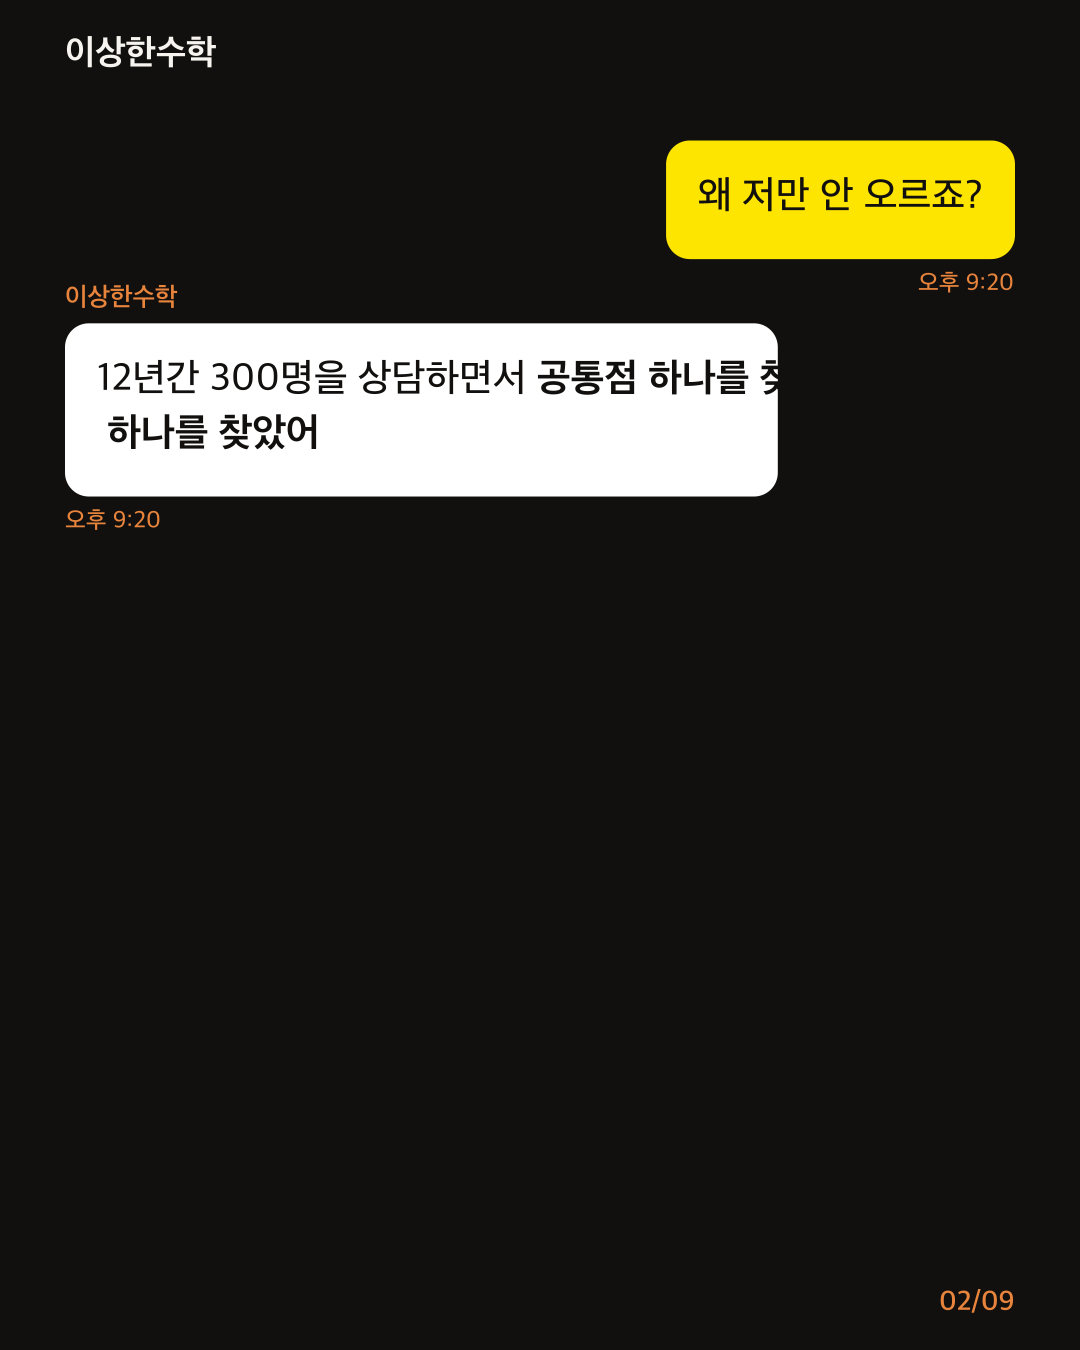
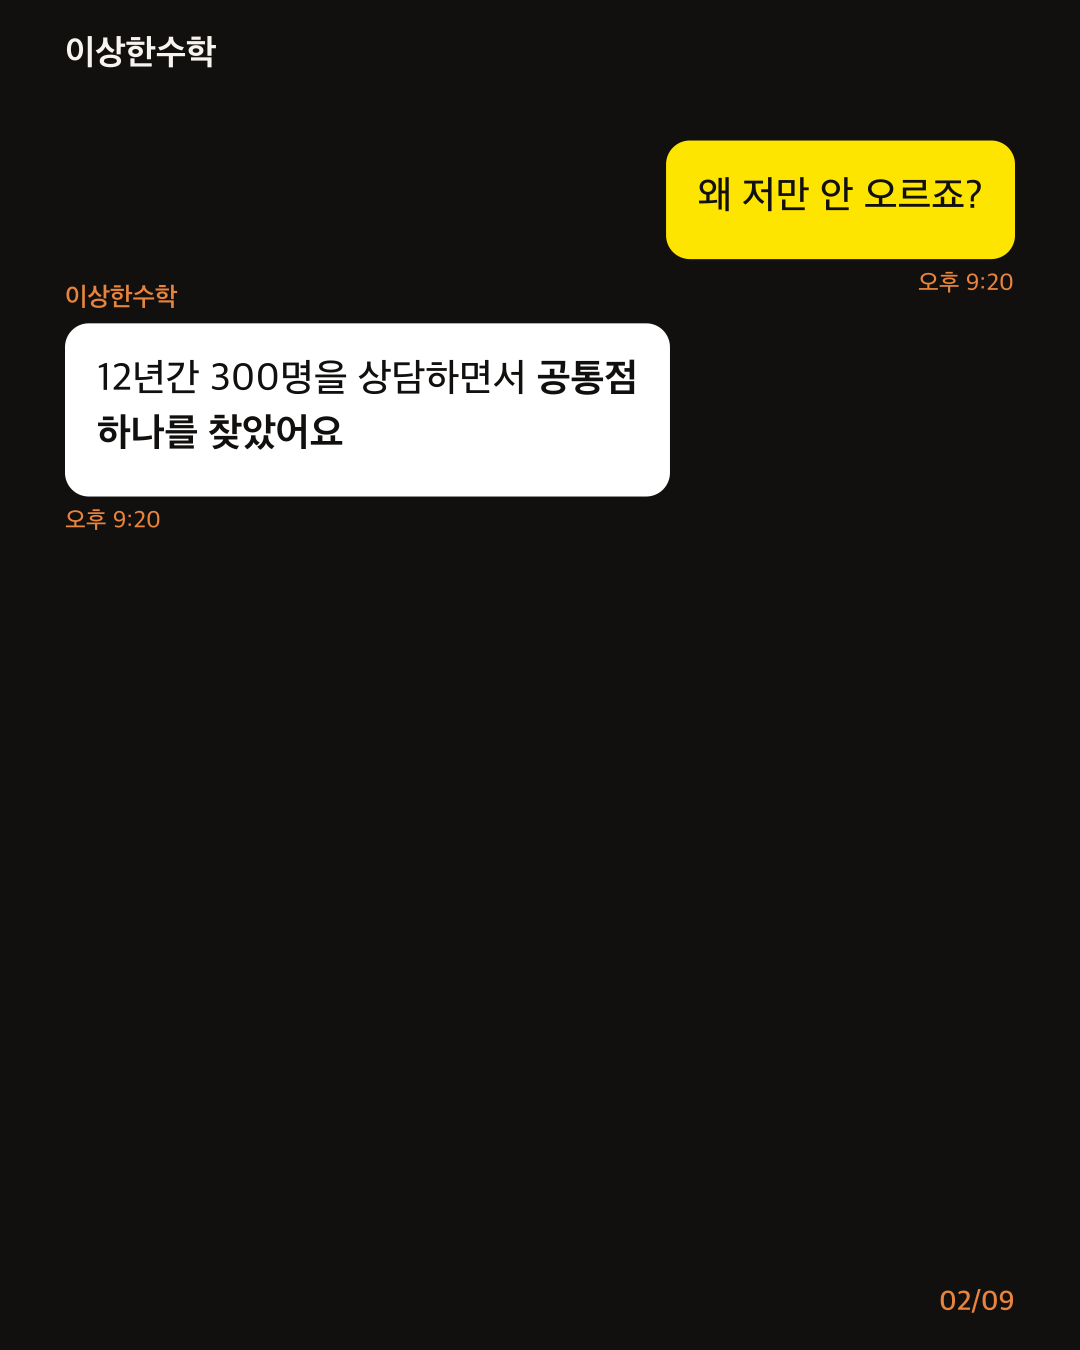
fix(studio): 말풍선 wrapSegments 커서 드리프트로 인한 텍스트 잘림/중복 수정
코드리뷰 세션이 02-chat.png·03-cta.png 캡처에서 흰 말풍선 텍스트가 우측
경계에서 글자 중간에 잘리고 다음 줄에 중복 출력되는 결함을 발견(01-cover.png는
정상). 근본원인: wrapSegments 가 일반 굵기로 wrapLines 를 돌려 줄 경계를 구한
뒤 그 경계를 문자 인덱스로 세그먼트에 재매핑했는데, wrapLines 가 줄바꿈마다
삼키는 공백 한 글자를 그 커서가 반영하지 못해 다음 줄부터 슬라이스 위치가
계속 밀렸다. 굵은 세그먼트가 없는 홑 세그먼트 CTA 버블(03)에서도 재현되어
굵기 문제가 아니라 순수 커서 드리프트였음을 확인.

수정: 재매핑을 없애고, 굵기를 글자 단위로 들고 다니는 토큰 배열 위에서
wrapLines 와 동일한 낱말 우선·글자 폴백 알고리즘을 직접 돌리는 wrapSegments
로 교체(toBoldChars/measureBoldChars/boldCharsToSegments). 위치 재계산이
없으므로 드리프트가 구조적으로 불가능하다.

동일 fixture(deck-d100.v2.json)로 재렌더해 01/02/03 캡처를 같은 경로에
덮어썼고, 03장을 직접 열어 잘림 없음을 육안 확인했다.

재발 방지: 기존 세이프존 오버플로 테스트("말풍선이 카드보다 깁니다")는
줄바꿈이 정상으로 끝나기만 하면 통과했고, 스냅샷 테스트도 없어 이 결함을
못 잡았다. wrapSegments 를 export 하고 실측 폭·글자수 보존을 직접 검사하는
텍스트 오버플로 회귀 테스트 4건을 추가(줄마다 버블 안쪽 폭 초과 금지,
원문 글자수 = 줄 글자수 합 + 줄바꿈수).

Changed region(s): [[0.6111, 0.2178, 0.7333, 0.3733], [0.0917, 0.3111, 0.3361, 0.3422]]

diff --git a/dashboard/src/lib/studio/card-templates/chat-bubble.ts b/dashboard/src/lib/studio/card-templates/chat-bubble.ts
@@ -214,35 +214,96 @@ function drawBubble(
   return bubbleHeight;
 }
 
-/** 세그먼트 배열을 줄바꿈 단위로 쪼갠다(굵기 차이를 반영한 측정으로 wrapLines 를 재사용). */
-function wrapSegments(ctx: CanvasRenderingContext2D, segments: Segment[], size: number, maxWidth: number): Segment[][] {
-  // 우선 일반 굵기 기준으로 줄바꿈 위치를 찾고, 그 경계에 맞춰 세그먼트를 재분배한다.
-  const fullText = segments.map((s) => s.text).join("");
-  ctx.font = `500 ${size}px ${FONT_FAMILY}`;
-  const lines = wrapLines((t) => ctx.measureText(t).width, fullText, maxWidth);
+/** 굵기가 붙은 한 글자. wrapSegments 가 줄바꿈 계산을 이 단위로 직접 한다(위치 재매핑 없음). */
+type BoldChar = { ch: string; bold: boolean };
 
-  const result: Segment[][] = [];
-  let cursor = 0;
-  for (const line of lines) {
-    const lineSegments: Segment[] = [];
-    let remaining = line.length;
-    let consumedInLine = 0;
-    let segCursor = 0;
-    for (const segment of segments) {
-      const segStart = segCursor;
-      const segEnd = segCursor + segment.text.length;
-      segCursor = segEnd;
-      const overlapStart = Math.max(segStart, cursor);
-      const overlapEnd = Math.min(segEnd, cursor + remaining + consumedInLine);
-      if (overlapStart < overlapEnd) {
-        const text = segment.text.slice(overlapStart - segStart, overlapEnd - segStart);
-        if (text) lineSegments.push({ text, bold: segment.bold });
-        consumedInLine += text.length;
-      }
-    }
-    cursor += line.length;
-    result.push(lineSegments.length ? lineSegments : [{ text: line, bold: false }]);
+function toBoldChars(segments: Segment[]): BoldChar[] {
+  const chars: BoldChar[] = [];
+  for (const segment of segments) {
+    for (const ch of segment.text) chars.push({ ch, bold: !!segment.bold });
   }
+  return chars;
+}
+
+/** 연속한 굵기 조각 폭을 합산 측정한다(굵기가 바뀔 때만 font 를 바꿔 잰다). */
+function measureBoldChars(ctx: CanvasRenderingContext2D, chars: BoldChar[], size: number): number {
+  let total = 0;
+  let i = 0;
+  while (i < chars.length) {
+    const bold = chars[i].bold;
+    let text = "";
+    while (i < chars.length && chars[i].bold === bold) {
+      text += chars[i].ch;
+      i += 1;
+    }
+    ctx.font = `${bold ? 700 : 500} ${size}px ${FONT_FAMILY}`;
+    total += ctx.measureText(text).width;
+  }
+  return total;
+}
+
+/** 굵기가 섞인 글자 배열을 세그먼트 배열로 되접는다(연속 동일 굵기를 한 세그먼트로). */
+function boldCharsToSegments(chars: BoldChar[]): Segment[] {
+  const segments: Segment[] = [];
+  let i = 0;
+  while (i < chars.length) {
+    const bold = chars[i].bold;
+    let text = "";
+    while (i < chars.length && chars[i].bold === bold) {
+      text += chars[i].ch;
+      i += 1;
+    }
+    segments.push({ text, bold });
+  }
+  return segments.length ? segments : [{ text: "", bold: false }];
+}
+
+/**
+ * 세그먼트 배열을 줄바꿈 단위로 쪼갠다. text-card-image.ts 의 wrapLines 와 같은 낱말 우선·
+ * 글자 단위 폴백 알고리즘을 굵기가 붙은 글자 배열 위에서 직접 돌린다 — "일반 굵기로 줄을
+ * 나눈 뒤 그 경계를 세그먼트에 재매핑"하는 방식은 줄바꿈이 삼키는 공백 한 글자만큼 매 줄
+ * 커서가 밀려 다음 줄부터 글자가 잘리거나 중복되는 버그가 있었다(2026-09-21 실측: 굵은
+ * 세그먼트가 없는 홑 세그먼트 말풍선에서도 재현 — 굵기 문제가 아니라 커서 드리프트였다).
+ */
+export function wrapSegments(ctx: CanvasRenderingContext2D, segments: Segment[], size: number, maxWidth: number): Segment[][] {
+  const chars = toBoldChars(segments);
+  const words: BoldChar[][] = [];
+  let word: BoldChar[] = [];
+  for (const c of chars) {
+    if (c.ch === " ") {
+      words.push(word);
+      word = [];
+    } else {
+      word.push(c);
+    }
+  }
+  words.push(word);
+
+  const lines: BoldChar[][] = [];
+  let current: BoldChar[] = [];
+  for (const w of words) {
+    const candidate = current.length ? [...current, { ch: " ", bold: false }, ...w] : w;
+    if (measureBoldChars(ctx, candidate, size) <= maxWidth) {
+      current = candidate;
+      continue;
+    }
+    if (current.length) {
+      lines.push(current);
+      current = [];
+    }
+    let piece: BoldChar[] = [];
+    for (const c of w) {
+      if (piece.length && measureBoldChars(ctx, [...piece, c], size) > maxWidth) {
+        lines.push(piece);
+        piece = [];
+      }
+      piece.push(c);
+    }
+    current = piece;
+  }
+  lines.push(current);
+
+  const result = lines.map(boldCharsToSegments);
   return result.length ? result : [[{ text: "", bold: false }]];
 }
 

diff --git a/dashboard/tests/studio/card-templates-chat-bubble.render.test.ts b/dashboard/tests/studio/card-templates-chat-bubble.render.test.ts
@@ -10,12 +10,16 @@
 import { describe, expect, it } from "vitest";
 import { mkdirSync, writeFileSync } from "node:fs";
 import { resolve } from "node:path";
-import { renderChatBubbleSlide, SAFE_ZONE_PX, COVER_HEADLINE_RATIO, BODY_RATIO } from "@/lib/studio/card-templates/chat-bubble";
+import { renderChatBubbleSlide, wrapSegments, SAFE_ZONE_PX, COVER_HEADLINE_RATIO, BODY_RATIO } from "@/lib/studio/card-templates/chat-bubble";
 import type { CardDeck } from "@/lib/studio/card-deck-contract";
+import { CARD_PIXELS } from "@/lib/studio/text-card-image";
 import deckD100 from "./fixtures/deck-d100.v2.json";
 
 const deck = deckD100 as unknown as CardDeck;
 const OUT_DIR = resolve(__dirname, "../../../docs/design/captures/quality-s1-pr1");
+const BODY_PADDING_RATIO = 0.03; // chat-bubble.ts drawBubble 의 padding 상수와 동일 값(회귀 검사용 재선언)
+const MAX_BUBBLE_WIDTH_RATIO = 0.66; // chat-bubble.ts drawChatSlide 의 maxBubbleWidth 상수와 동일 값
+const FONT_FAMILY = '"Apple SD Gothic Neo", "Noto Sans KR", system-ui, sans-serif';
 
 function dataUrlToBuffer(dataUrl: string): Buffer {
   const base64 = dataUrl.split(",")[1];
@@ -70,4 +74,64 @@ describe("renderChatBubbleSlide 실물 렌더 (TC-F2-01~04)", () => {
     // 같은 계약을 이미 검증하므로 여기서는 계약 문서화만 남긴다.
     expect(typeof document).toBe("object");
   });
+});
+
+describe("wrapSegments 텍스트 오버플로 회귀 (2026-09-21 코드리뷰 실측 — 버블 우측 경계에서 글자 잘림)", () => {
+  // 2026-09-21 실측: 일반 굵기 기준으로 wrapLines 를 돌린 뒤 그 줄 경계를 세그먼트에
+  // 문자 인덱스로 재매핑하는 방식이 있었다. 줄바꿈마다 삼켜지는 공백 한 글자를 커서가
+  // 반영하지 못해 다음 줄부터 슬라이스 위치가 밀렸다 — 그 결과가 "버블 안에 다 담기는
+  // PNG"였기 때문에, 세이프존 오버플로(카드보다 긴 말풍선)를 던지는 기존 테스트는 이
+  // 결함을 통과시켰다. 여기서는 실제로 폭을 측정해 "줄마다 실측 텍스트 폭이 버블
+  // 안쪽 폭을 넘지 않는가"와 "글자가 하나도 손실·중복되지 않았는가"를 직접 검사한다.
+  const width = CARD_PIXELS["4:5"].width;
+  const bodySize = Math.round(width * BODY_RATIO);
+  const padding = Math.round(width * 0.03);
+  const maxBubbleWidth = width * MAX_BUBBLE_WIDTH_RATIO;
+  const innerMaxWidth = maxBubbleWidth - padding * 2;
+
+  function makeCtx(): CanvasRenderingContext2D {
+    const canvas = document.createElement("canvas");
+    canvas.width = width;
+    canvas.height = width;
+    return canvas.getContext("2d") as CanvasRenderingContext2D;
+  }
+
+  function measureLine(ctx: CanvasRenderingContext2D, line: { text: string; bold?: boolean }[]): number {
+    let total = 0;
+    for (const seg of line) {
+      ctx.font = `${seg.bold ? 700 : 500} ${bodySize}px ${FONT_FAMILY}`;
+      total += ctx.measureText(seg.text).width;
+    }
+    return total;
+  }
+
+  const cases: Array<{ name: string; segments: { text: string; bold: boolean }[] }> = [
+    {
+      name: "slide-1 브랜드 버블(일반+굵기 혼합)",
+      segments: deck.slides[1].bubbles!.find((b) => b.speaker === "brand")!.segments,
+    },
+    {
+      name: "slide-8 CTA 버블(홑 세그먼트, 굵기 없음)",
+      segments: deck.slides[deck.slides.length - 1].bubbles!.find((b) => b.speaker === "brand")!.segments,
+    },
+  ];
+
+  for (const { name, segments } of cases) {
+    it(`${name}: 줄마다 실측 폭이 버블 안쪽 폭(패딩 제외)을 넘지 않는다`, () => {
+      const ctx = makeCtx();
+      const wrapped = wrapSegments(ctx, segments, bodySize, innerMaxWidth);
+      for (const line of wrapped) {
+        expect(measureLine(ctx, line)).toBeLessThanOrEqual(innerMaxWidth + 0.5);
+      }
+    });
+
+    it(`${name}: 줄바꿈으로 글자가 손실·중복되지 않는다(원문 글자 수 = 줄 글자 수 합 + 줄바꿈 수)`, () => {
+      const ctx = makeCtx();
+      const wrapped = wrapSegments(ctx, segments, bodySize, innerMaxWidth);
+      const originalLength = segments.map((s) => s.text).join("").length;
+      const wrappedLength = wrapped.reduce((sum, line) => sum + line.reduce((s, seg) => s + seg.text.length, 0), 0);
+      // 매 줄바꿈이 원문의 공백 한 글자를 삼킨다(마지막 줄에는 뒤따르는 줄바꿈이 없다).
+      expect(wrappedLength + (wrapped.length - 1)).toBe(originalLength);
+    });
+  }
 });
